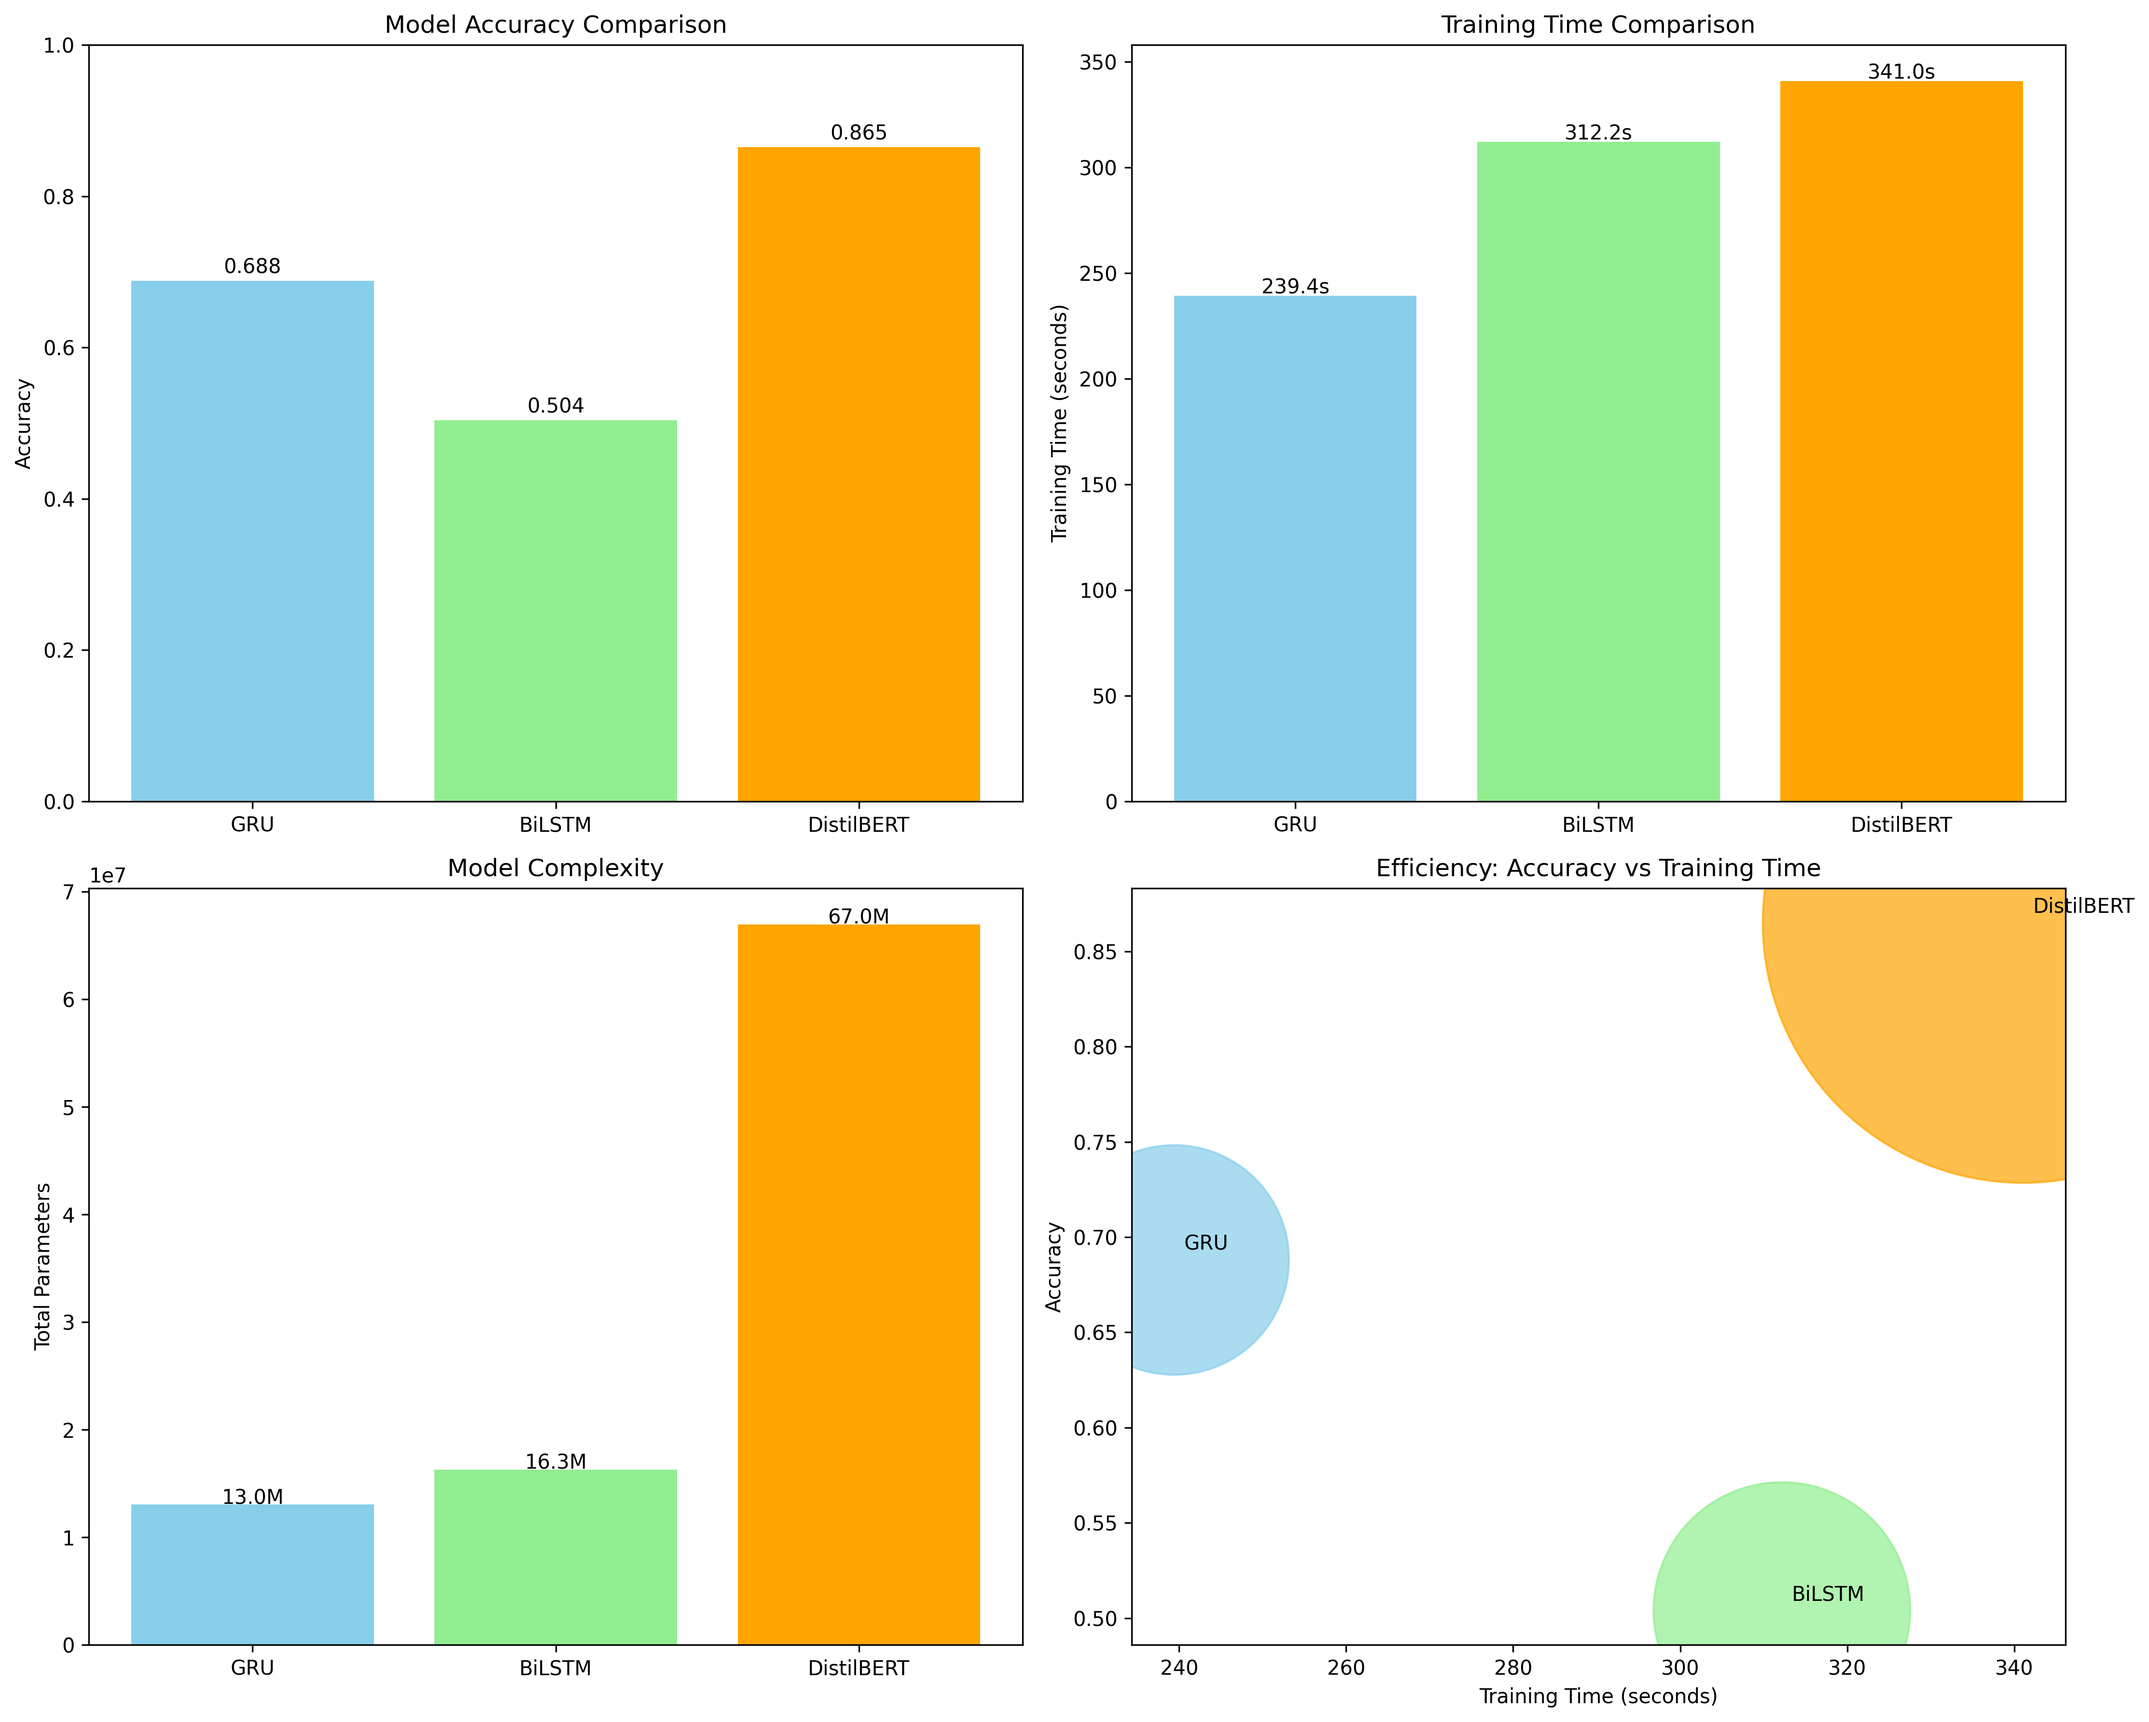
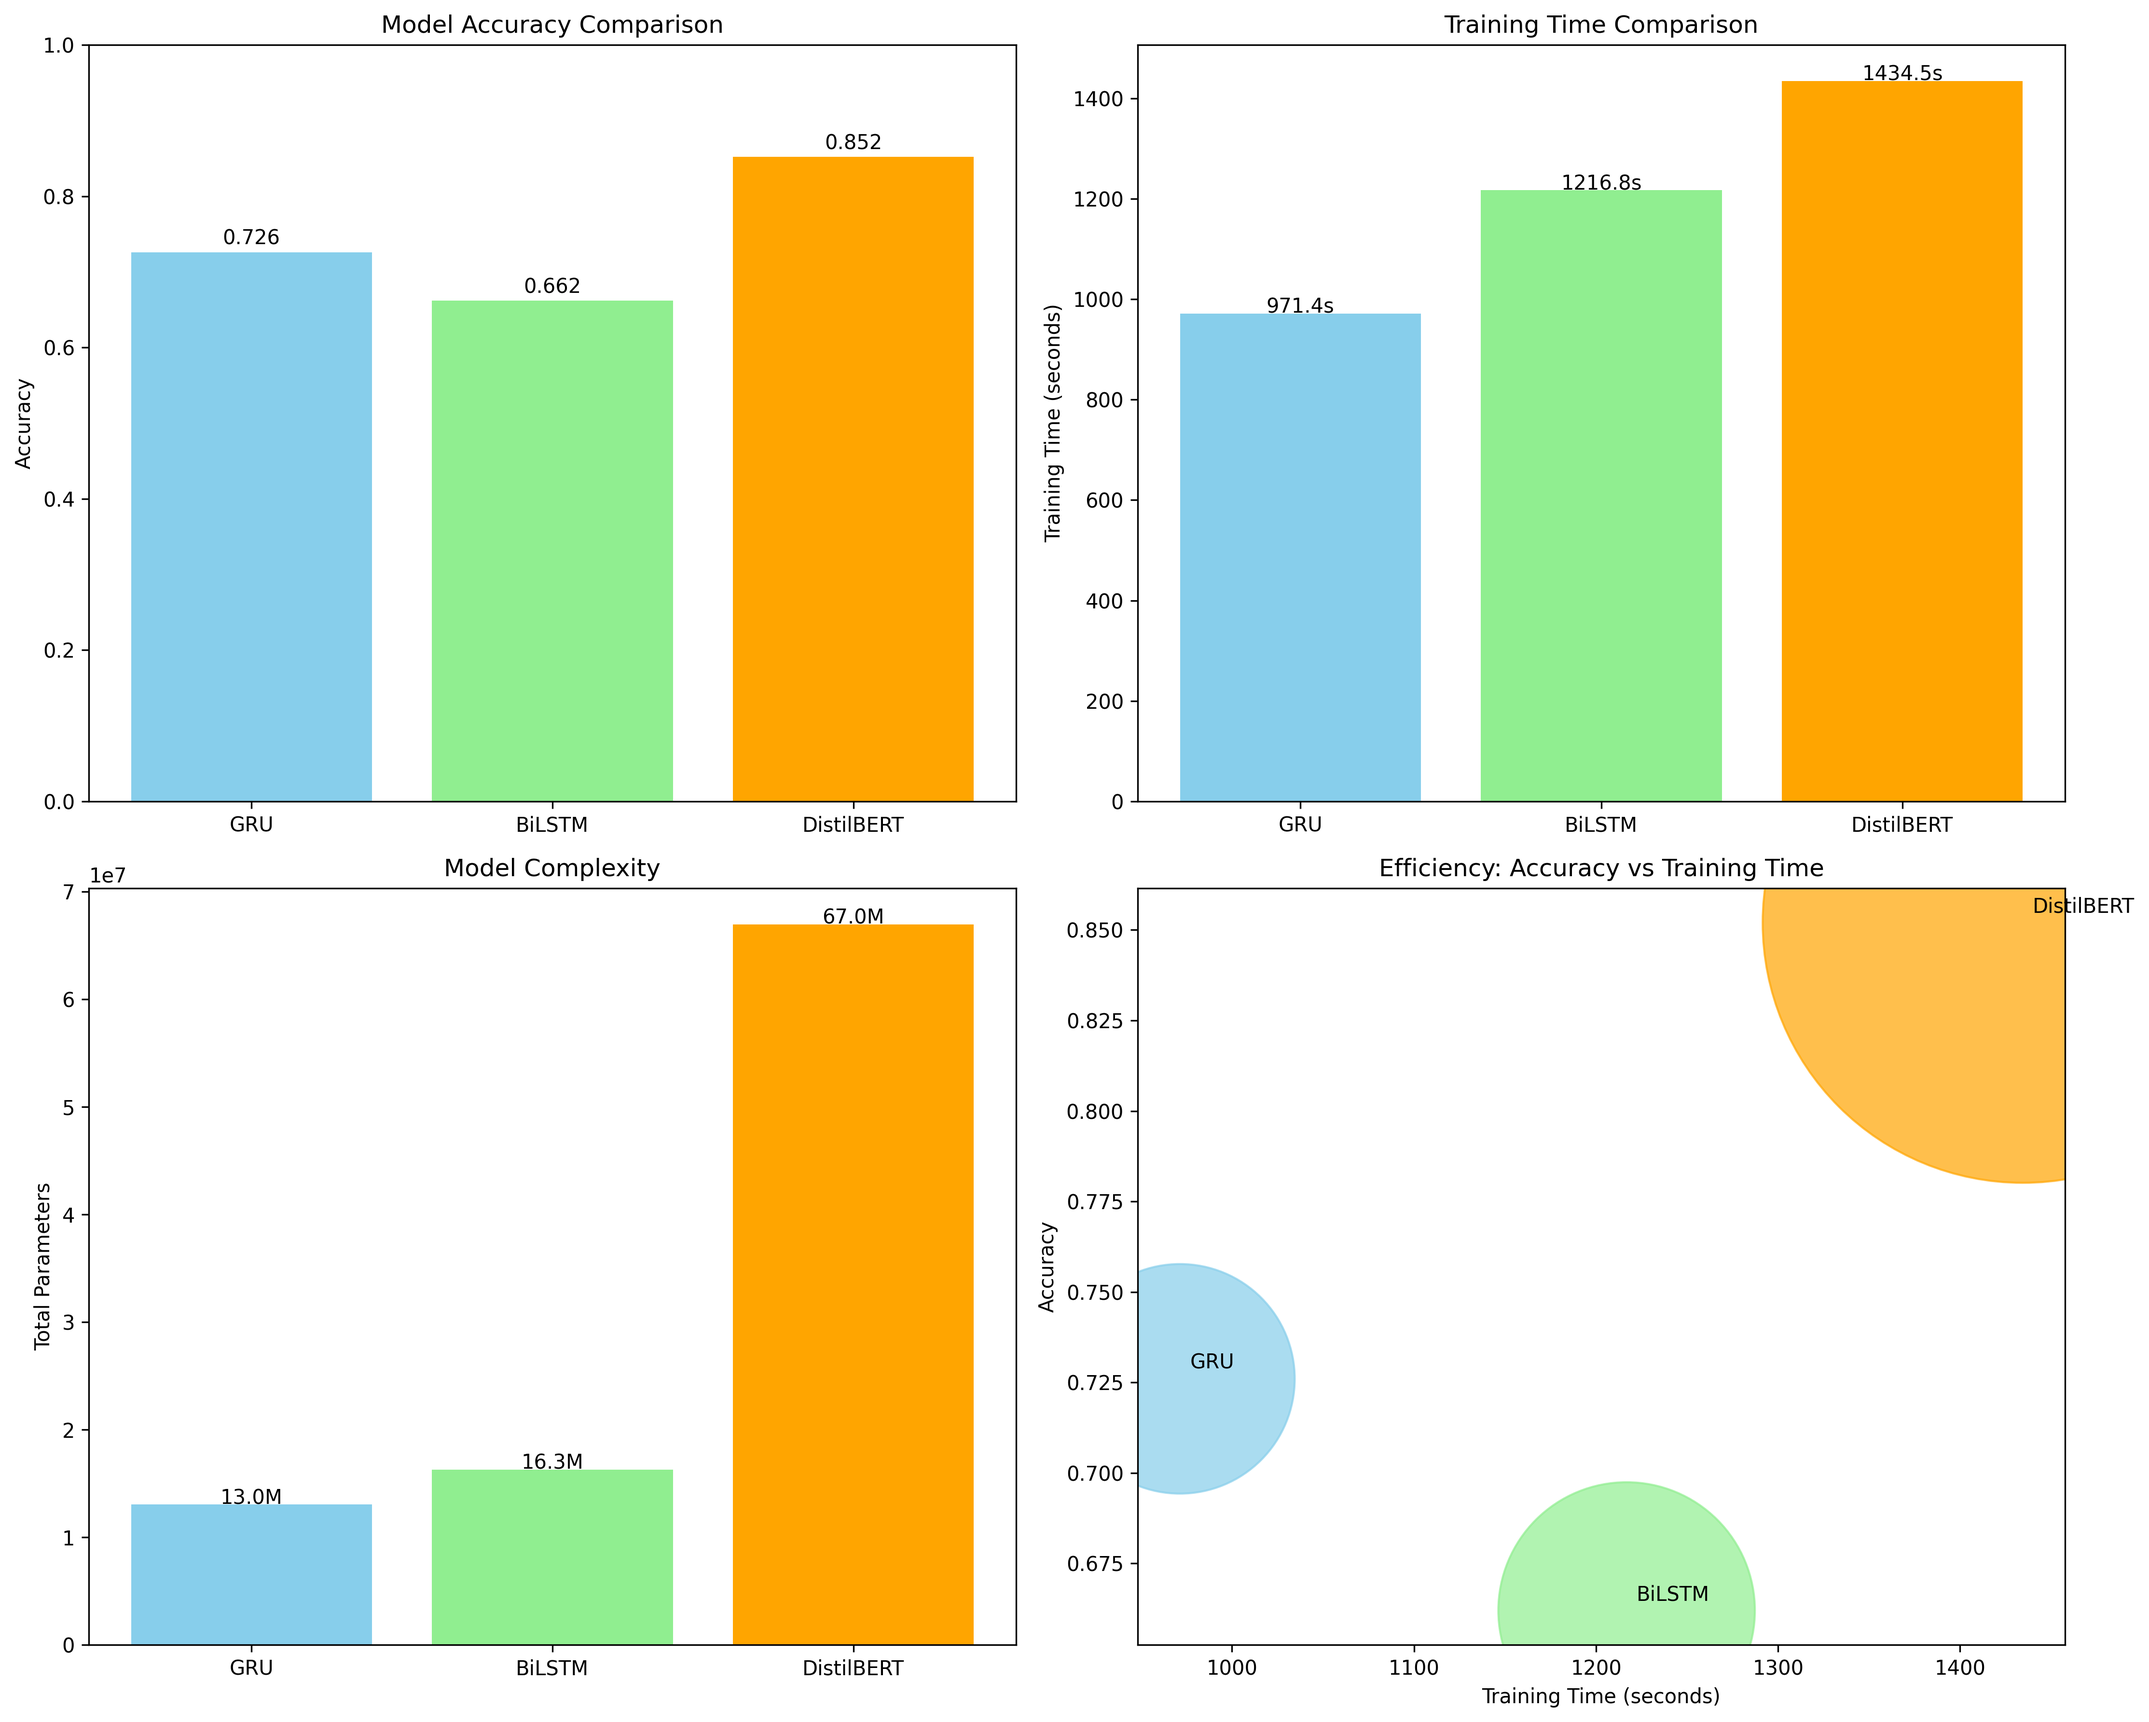
update

diff --git a/README.md b/README.md
@@ -50,9 +50,9 @@ python sentiment_model_comparison.py
 
 | Model | Accuracy | Training Time (s) | Total Parameters | Trainable Parameters | Parameters (Millions) |
 |-------|----------|-------------------|------------------|---------------------|----------------------|
-| GRU | 0.709 | 394.12 | 13,042,370 | 13,042,370 | 13.04 |
-| BiLSTM | 0.642 | 509.67 | 16,287,170 | 16,287,170 | 16.29 |
-| DistilBERT | 0.861 | 793.84 | 66,955,010 | 66,955,010 | 66.96 |
+| GRU | 0.726 | 971.38 | 13,042,370 | 13,042,370 | 13.04 |
+| BiLSTM | 0.662 | 1,216.81 | 16,287,170 | 16,287,170 | 16.29 |
+| DistilBERT | 0.852 | 1,434.49 | 66,955,010 | 66,955,010 | 66.96 |
 
 
 ### Training Progress
@@ -60,11 +60,14 @@ Accuracy of each epoch
 
 | Epoch | GRU | BiLSTM | DistilBERT |
 |-------|-----|--------|------------|
-| 1 | 0.652 | 0.618 | - |
-| 2 | 0.687 | 0.634 | - |
-| 3 | 0.701 | 0.642 | - |
-| 4 | 0.708 | 0.645 | - |
-| 5 | 0.709 | 0.642 | - |
+| 1 | 0.544 | 0.5474 | 0.846 |
+| 2 | 0.6932 | 0.5324 | 0.837 |
+| 3 | 0.8228 | 0.5756 | 0.844 |
+| 4 | 0.9276 | 0.6542 | 0.848 |
+| 5 | 0.9818 | 0.7702 | 0.844 |
+| 6 | 0.9958 | 0.876 | 0.847 |
+| 7 | 0.9996 | 0.9408 | 0.855 |
+| 8 | 0.9998 | 0.973 | 0.852 |
 
 ### Visualization
 
@@ -83,8 +86,8 @@ The project generates a comprehensive comparison chart showing:
 
 ---
 
-1. **DistilBERT** achieved the highest accuracy (86.1%) but required the longest training time
-2. **GRU** provided the best balance of accuracy (70.9%) and training efficiency
-3. **BiLSTM** had the lowest accuracy (64.2%) among the tested models
+1. **DistilBERT** achieved the highest accuracy (85.2%) but required the longest training time (1,434.49s)
+2. **GRU** provided the best balance of accuracy (72.6%) and training efficiency (971.38s)
+3. **BiLSTM** had the lowest accuracy (66.2%) among the tested models
 4. Transformer models (DistilBERT) significantly outperformed RNN models in accuracy
 5. RNN models were faster to train but less accurate than transformer models
